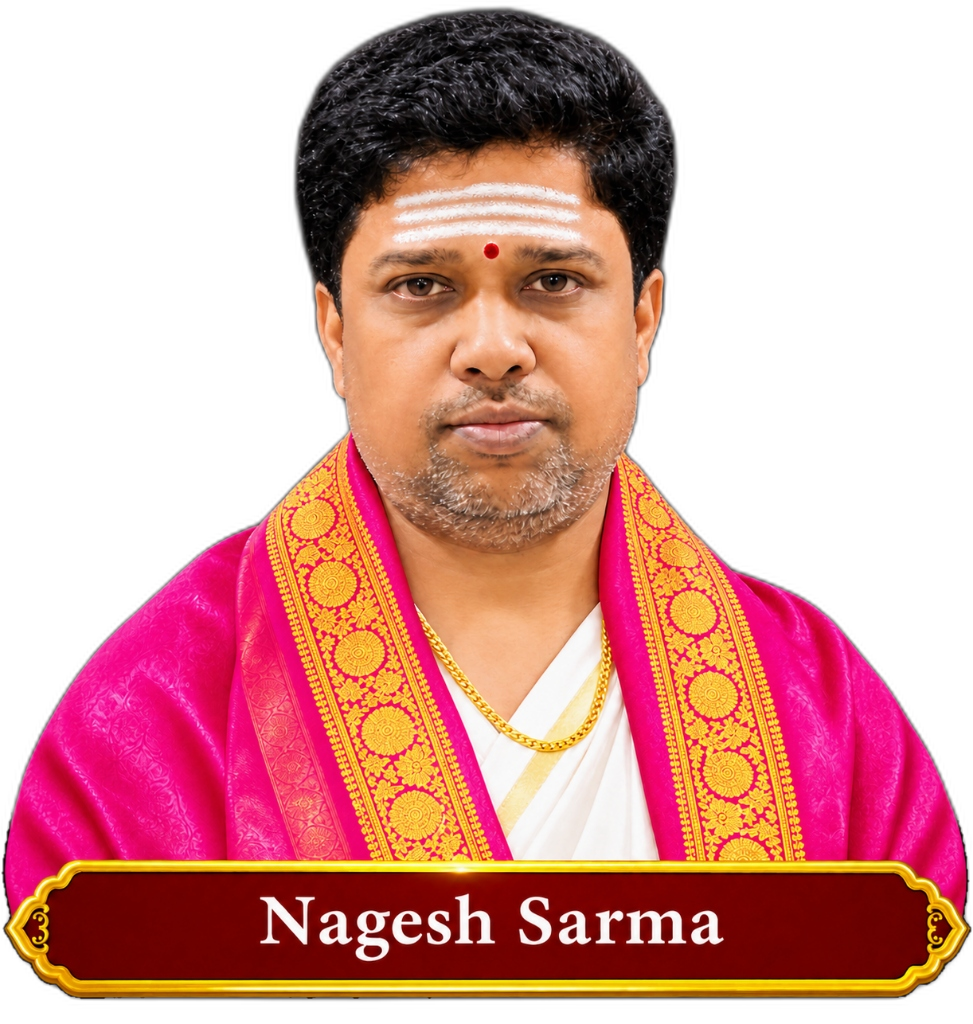
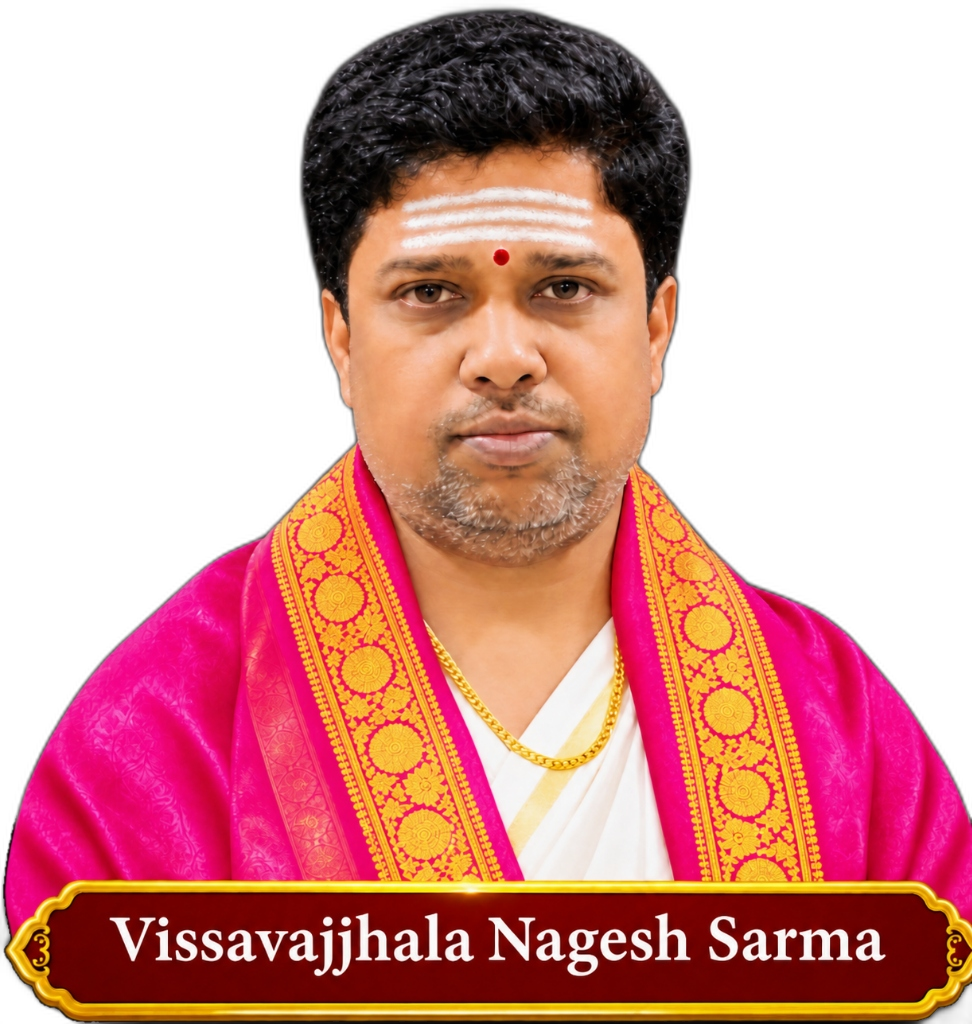
Update spelling to Vissavajjhala Nagesh Sarma and replace home page portrait

diff --git a/src/routes/about.tsx b/src/routes/about.tsx
@@ -179,12 +179,12 @@ function AboutPage() {
 
                 {/* Profiles Grid */}
                 <div className="relative z-10 grid gap-10 md:grid-cols-2">
-                  {/* Profile 1: Vissavajhula Nagesh Sarma */}
+                  {/* Profile 1: Vissavajjhala Nagesh Sarma */}
                   <div className="flex flex-col sm:flex-row items-center sm:items-start gap-5 text-center sm:text-left">
                     <div className="relative shrink-0 w-32 h-32 sm:w-36 sm:h-36 overflow-hidden rounded-2xl border-2 border-gold/60 bg-cream/90 shadow-md">
                       <img
                         src={guruji1Img}
-                        alt="Vissavajhula Nagesh Sarma"
+                        alt="Vissavajjhala Nagesh Sarma"
                         className="h-full w-full object-cover"
                         loading="lazy"
                       />
@@ -192,7 +192,7 @@ function AboutPage() {
                     <div className="flex-1">
                       <h2 className="font-display text-lg sm:text-xl font-bold text-maroon">
                         {tr({
-                          en: "Vissavajhula Nagesh Sarma",
+                          en: "Vissavajjhala Nagesh Sarma",
                           te: "విస్సావఝుల నాగేష్ శర్మ",
                         })}
                       </h2>

diff --git a/src/data/site.ts b/src/data/site.ts
@@ -20,7 +20,7 @@ export const HOURS: Bi = {
 export const ORG_NAME = "Sri Vasishta Jyotishya Parishodhanalayam";
 export const ORG_NAME_TE = "శ్రీ వశిష్ఠ జ్యోతిష్య పరిశోధనాలయం";
 export const GURU_NAME: Bi = {
-  en: "Vissavajhula Nagesh Sarma",
+  en: "Vissavajjhala Nagesh Sarma",
   te: "విస్సావఝుల నాగేష్ శర్మ",
 };
 
@@ -66,7 +66,7 @@ const en = {
     samskarasLabel: "Vedic Samskaras",
     remediesLabel: "Graha Shantis & Remedies",
     welcomeTitle: "Welcome",
-    welcome: "At the Samavedam Vedic Centre in Krishnalanka, Vijayawada, Vissavajhula Nagesh Sarma garu performs horoscope analysis, Vedic samskaras, graha shantis, homas and remedial rituals in accordance with the shastras.",
+    welcome: "At the Samavedam Vedic Centre in Krishnalanka, Vijayawada, Vissavajjhala Nagesh Sarma garu performs horoscope analysis, Vedic samskaras, graha shantis, homas and remedial rituals in accordance with the shastras.",
     servicesTitle: "Our Services",
     servicesSubtitle: "Traditional jyotishyam and shastric services, performed in the proper manner.",
     howTitle: "How It Works",

diff --git a/src/routes/index.tsx b/src/routes/index.tsx
@@ -39,7 +39,7 @@ export const Route = createFileRoute("/")({
       {
         name: "description",
         content:
-          "Horoscope analysis, Navagraha Shanti, Kalasarpa dosha nivarana, marriage muhurta, griha pravesam, homas and Vedic samskaras by Vissavajhula Nagesh Sarma at Krishnalanka, Vijayawada.",
+          "Horoscope analysis, Navagraha Shanti, Kalasarpa dosha nivarana, marriage muhurta, griha pravesam, homas and Vedic samskaras by Vissavajjhala Nagesh Sarma at Krishnalanka, Vijayawada.",
       },
       { property: "og:title", content: "Sri Vasishta Jyotishya Parishodhanalayam | Vijayawada" },
       {
@@ -284,7 +284,7 @@ function Index() {
             <Reveal delay={0.05} className="w-52 sm:w-72 md:w-80">
               <img
                 src={gurujiNageshPortrait}
-                alt="Vissavajhula Nagesh Sarma — Vedic scholar and astrologer"
+                alt="Vissavajjhala Nagesh Sarma — Vedic scholar and astrologer"
                 className="w-full drop-shadow-xl"
                 loading="lazy"
               />
